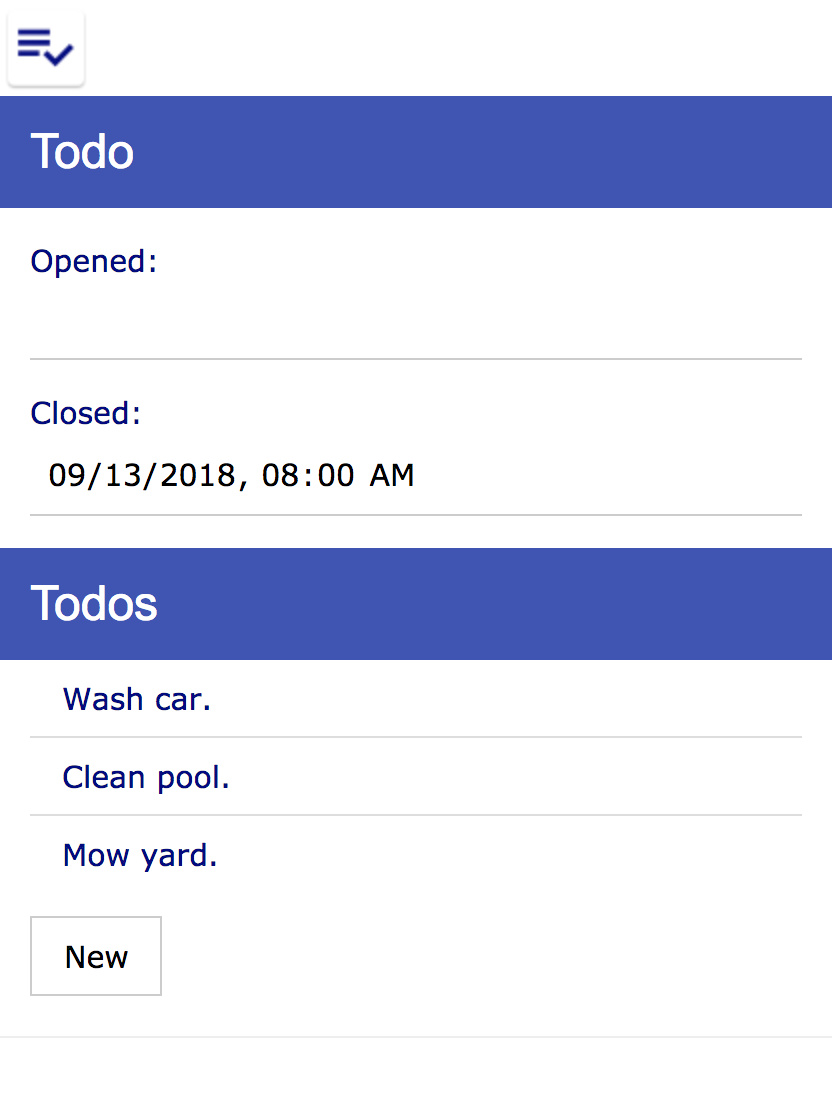
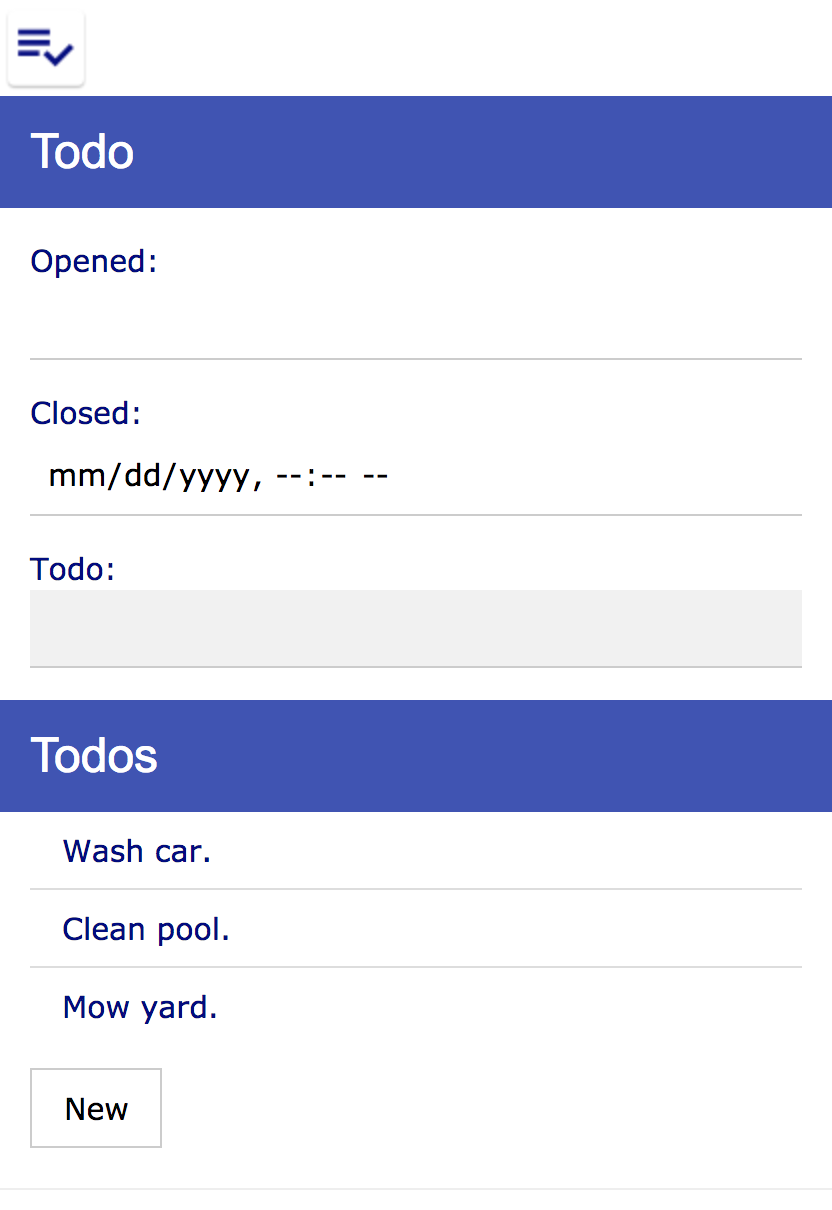
edited index.html and mobile.ui.png

diff --git a/pwa/index.html b/pwa/index.html
@@ -32,6 +32,10 @@
                 <label>Closed:</label>
                 <input id="closed" class="w3-input w3-input w3-hover-light-gray" type="datetime-local"/>
             </p>
+            <p>
+                <label>Todo:</label>
+                <input id="todo" class="w3-input w3-input w3-hover-light-gray" type="text"/>
+            </p>
         </div>
         <div class="w3-container w3-indigo">
             <h3>Todos</h3>
